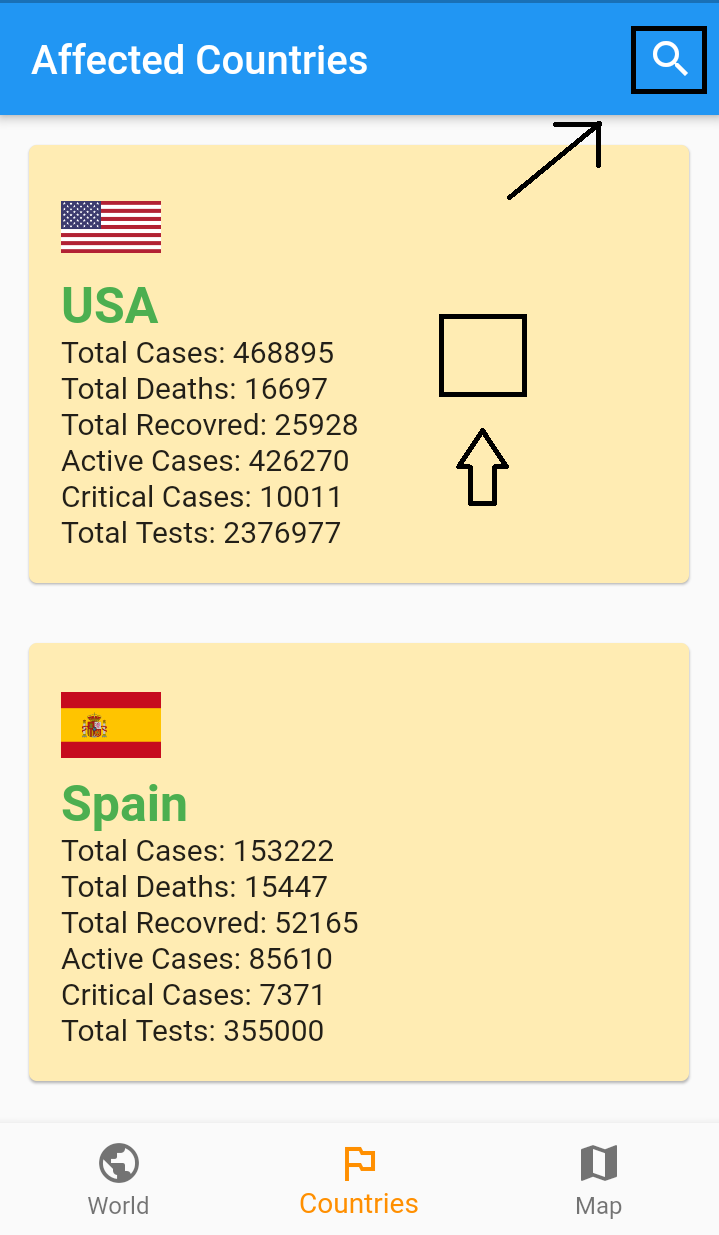
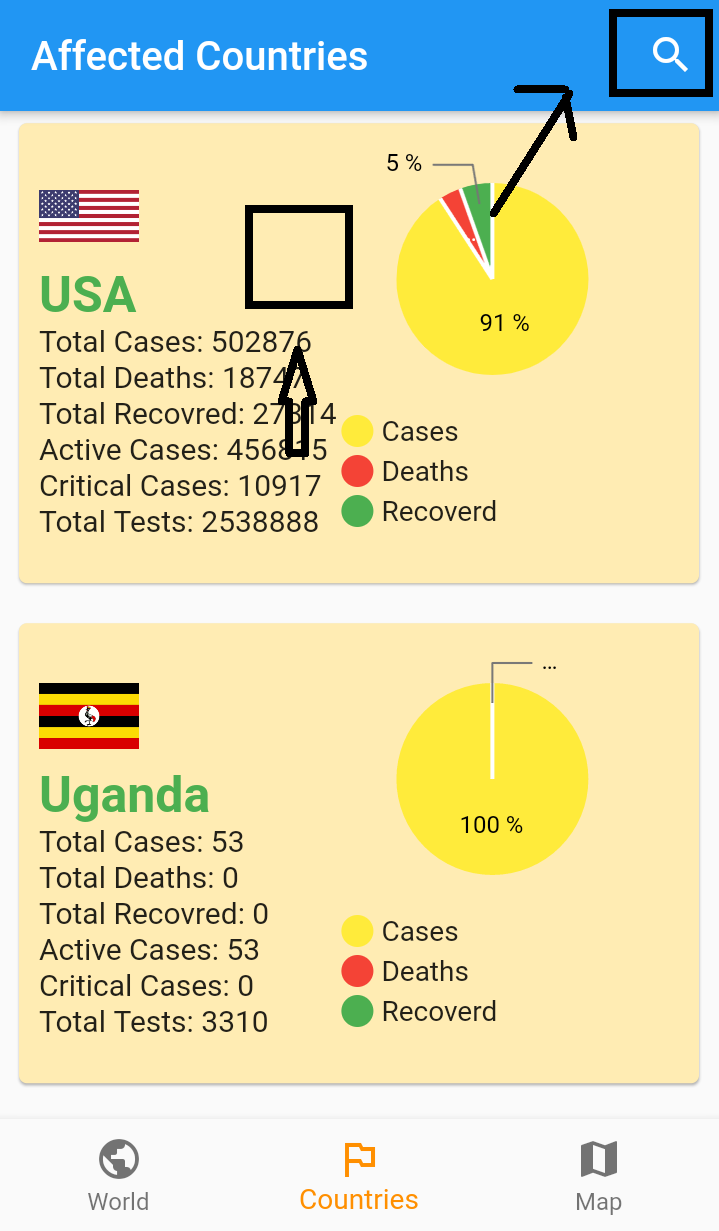
second commit

Changed region(s): [[0.0, 0.0, 1.0, 0.8952], [0.0306, 0.0309, 0.5202, 0.0617]]

diff --git a/lib/country/country.dart b/lib/country/country.dart
@@ -1,9 +1,12 @@
+import 'dart:async';
 import 'dart:convert';
-import 'detail.dart';
-import 'country_detail.dart';
+import 'package:charts_flutter/flutter.dart' as charts;
 import 'package:flutter/material.dart';
 import 'package:http/http.dart' as http;
-import 'dart:async';
+
+import 'indicator.dart';
+import 'country_detail.dart';
+import 'detail.dart';
 
 class HomePage extends StatefulWidget {
 
@@ -96,6 +99,7 @@ class _HomePageState extends State<HomePage> {
     }
 
     return ListView.builder(
+        addAutomaticKeepAlives: false,
         itemCount: filteredNames.length,
         itemBuilder: (context, i) {
           final nDataList = filteredNames[i];
@@ -121,33 +125,49 @@ class _HomePageState extends State<HomePage> {
                   },
               child: Card(
                 color: Colors.amber[100],
-                margin: EdgeInsets.all(15),
+                margin: EdgeInsets.all(0.04*screenWidth),
                 child: Padding(
-                  padding: EdgeInsets.all(16),
-                  child: Column(
-                    crossAxisAlignment: CrossAxisAlignment.start,
+                  padding: EdgeInsets.all(0.04*screenWidth),
+                  child: Row(
                     children: <Widget>[
-                      Image.network(url, height: 50, width: 50, scale: 1.0),
-                      Text(
-                        nDataList.country,
-                        style: TextStyle(
-                            fontWeight: FontWeight.bold,
-                            fontSize: 25,
-                            color: Colors.green),
+                      Container(
+                        width: 0.42*screenWidth,
+                        child: Column(
+                          crossAxisAlignment: CrossAxisAlignment.start,
+                          children: <Widget>[
+                            Image.network(url, height: 50, width: 50, scale: 1.0),
+                            Text(
+                              nDataList.country,
+                              style: TextStyle(
+                                  fontWeight: FontWeight.bold,
+                                  fontSize: 25,
+                                  color: Colors.green),
+                            ),
+                            Text("Total Cases: " + (nDataList.cases).toString(),
+                                style: TextStyle(fontSize: 15)),
+                            Text("Total Deaths: " + (nDataList.deaths).toString(),
+                                style: TextStyle(fontSize: 15)),
+                            Text(
+                                "Total Recovred: " + (nDataList.recovered).toString(),
+                                style: TextStyle(fontSize: 15)),
+                            Text("Active Cases: " + (nDataList.active).toString(),
+                                style: TextStyle(fontSize: 15)),
+                            Text("Critical Cases: " + (nDataList.critical).toString(),
+                                style: TextStyle(fontSize: 15)),
+                            Text("Total Tests: " + (nDataList.tests).toString(),
+                                style: TextStyle(fontSize: 15)),
+                          ],
+                        ),
                       ),
-                      Text("Total Cases: " + (nDataList.cases).toString(),
-                          style: TextStyle(fontSize: 15)),
-                      Text("Total Deaths: " + (nDataList.deaths).toString(),
-                          style: TextStyle(fontSize: 15)),
-                      Text(
-                          "Total Recovred: " + (nDataList.recovered).toString(),
-                          style: TextStyle(fontSize: 15)),
-                      Text("Active Cases: " + (nDataList.active).toString(),
-                          style: TextStyle(fontSize: 15)),
-                      Text("Critical Cases: " + (nDataList.critical).toString(),
-                          style: TextStyle(fontSize: 15)),
-                      Text("Total Tests: " + (nDataList.tests).toString(),
-                          style: TextStyle(fontSize: 15)),
+                      Container(
+                        width: 0.42*screenWidth,
+                        height: 200,
+                        child: DonutChart(
+                          nDataList.cases,
+                          nDataList.deaths,
+                          nDataList.recovered
+                          ),
+                      ),
                     ],
                   ),
                 ),
@@ -156,10 +176,14 @@ class _HomePageState extends State<HomePage> {
           );
         });
   }
-
+double screenHeight;
+double screenWidth;
 
   @override
   Widget build(BuildContext context) {
+    Size size = MediaQuery.of(context).size;
+    screenHeight = size.height;
+    screenWidth = size.width;
     return Scaffold(
       appBar: _buildBar(context),
       body: Container(
@@ -209,3 +233,116 @@ class _HomePageState extends State<HomePage> {
   }
 }
 
+class DonutChart extends StatelessWidget {
+  final int cases, deaths, recovered;
+  final bool animate;
+
+  const DonutChart(this.cases, this.deaths, this.recovered, {this.animate = true});
+
+  @override
+  Widget build(BuildContext context) {
+    return Column(
+      children: <Widget>[
+        Expanded(
+          child: charts.PieChart(
+            _createDataFromLatest(context, cases, deaths, recovered),
+            animate: animate,
+            defaultRenderer: charts.ArcRendererConfig(
+              arcWidth: 60,
+              arcRendererDecorators: [
+                charts.ArcLabelDecorator(),
+              ],
+            ),
+          ),
+        ),
+        Column(
+          mainAxisSize: MainAxisSize.min,
+          mainAxisAlignment: MainAxisAlignment.center,
+          crossAxisAlignment: CrossAxisAlignment.center,
+          children: <Widget>[
+            Indicator(
+              color: Colors.yellow,
+              text: "Cases",
+            ),
+            const SizedBox(
+              height: 4,
+            ),
+            Indicator(
+              color: Colors.red,
+              text: "Deaths",
+            ),
+            const SizedBox(
+              height: 4,
+            ),
+            Indicator(
+              color: Colors.green,
+              text: "Recoverd",
+            ),
+            const SizedBox(
+              height: 18,
+            ),
+          ],
+        ),
+      ],
+    );
+  }
+
+  List<charts.Series<LinearSales, String>> _createDataFromLatest(
+      BuildContext context, int cases, int deaths, int recovered) {
+    int activeNumber = cases - deaths - recovered;
+    final active = "Cases";
+    final ideaths = "Deaths";
+    final irecovered = "Recovered";
+
+    Map<String, dynamic> colors = {
+      active: charts.MaterialPalette.yellow.shadeDefault,
+      ideaths: charts.MaterialPalette.red.shadeDefault,
+      irecovered: charts.MaterialPalette.green.shadeDefault,
+    };
+
+    final data = [
+      LinearSales(active, activeNumber),
+      LinearSales(ideaths, deaths),
+      LinearSales(irecovered, recovered),
+    ];
+
+
+    return [
+      charts.Series<LinearSales, String>(
+        id: 'Sales',
+        domainFn: (LinearSales sales, _) => sales.label,
+        measureFn: (LinearSales sales, _) => sales.number,
+        data: data,
+        colorFn: (LinearSales sales, _) => colors[sales.label],
+        outsideLabelStyleAccessorFn: (LinearSales sales, _) {
+          var color = charts.MaterialPalette.black;
+          return charts.TextStyleSpec(
+            color: color,
+          );
+        },
+        insideLabelStyleAccessorFn: (LinearSales sales, _) {
+          var color = charts.MaterialPalette.black;
+          if (sales.label != active) {
+            color = charts.MaterialPalette.white;
+          }
+          return charts.TextStyleSpec(
+            color: color,
+          );
+        },
+        labelAccessorFn: (LinearSales row, _) =>
+            getPercent(row.number, cases).toStringAsFixed(0) + ' %',
+      )
+    ];
+  }
+
+  double getPercent(int number, int sum) {
+    return (number / sum) * 100;
+  }
+}
+
+class LinearSales {
+  final String label;
+  final int number;
+
+  LinearSales(this.label, this.number);
+}

diff --git a/lib/home/drawer.dart b/lib/home/drawer.dart
@@ -17,6 +17,13 @@ class CustomDrawer extends StatelessWidget {
       );
     }
   }
+  Future<void> _launchEmail(String url) async {
+    if (await canLaunch(url)){
+      await launch(url);
+    }else{
+      throw 'Could not Launch $url';
+    }
+  }
 
   Future _showDialog(BuildContext context) async {
     // flutter defined function
@@ -119,6 +126,17 @@ class CustomDrawer extends StatelessWidget {
                         ),),
                 onTap: () => _launch("https://github.com/kaditya97/coronavirus_app"),
                 trailing: Icon(Icons.open_in_new,color: Colors.blue),
+              ),
+              ListTile(
+                leading: Icon(Icons.email,
+                color: Colors.blue),
+                title: Text("Feedback", style:  TextStyle(
+                          fontSize: 20,
+                          fontWeight: FontWeight.bold,
+                        ),),
+                onTap: () => _launchEmail('mailto:kaditya9711@gmail.com?subject=Coronvirus%20app%20feedback&body=Suggestion'),
+                trailing: Icon(Icons.open_in_new,
+                color: Colors.blue),
               ),
             ],
           ),

diff --git a/lib/country/indicator.dart b/lib/country/indicator.dart
@@ -1,0 +1,38 @@
+import 'package:flutter/material.dart';
+
+class Indicator extends StatelessWidget {
+  final Color color;
+  final String text;
+  final bool isSquare;
+  final double size;
+
+  const Indicator({
+    Key key,
+    this.color,
+    this.text,
+    this.isSquare = false,
+    this.size = 16,
+  }) : super(key: key);
+
+  @override
+  Widget build(BuildContext context) {
+    return Row(
+      children: <Widget>[
+        Container(
+          width: size,
+          height: size,
+          decoration: BoxDecoration(
+            shape: isSquare ? BoxShape.rectangle : BoxShape.circle,
+            color: color,
+          ),
+        ),
+        const SizedBox(
+          width: 4,
+        ),
+        Text(
+          text,
+        )
+      ],
+    );
+  }
+}

diff --git a/lib/intro.dart b/lib/intro.dart
@@ -93,7 +93,7 @@ class _OnBoardingPageState extends State<OnBoardingPage> {
               introKey.currentState?.animateScroll(0);
             },
             child: const Text(
-              'Go To Start',
+              'Read Again',
               style: TextStyle(color: Colors.white),
             ),
             color: Colors.lightBlue,
